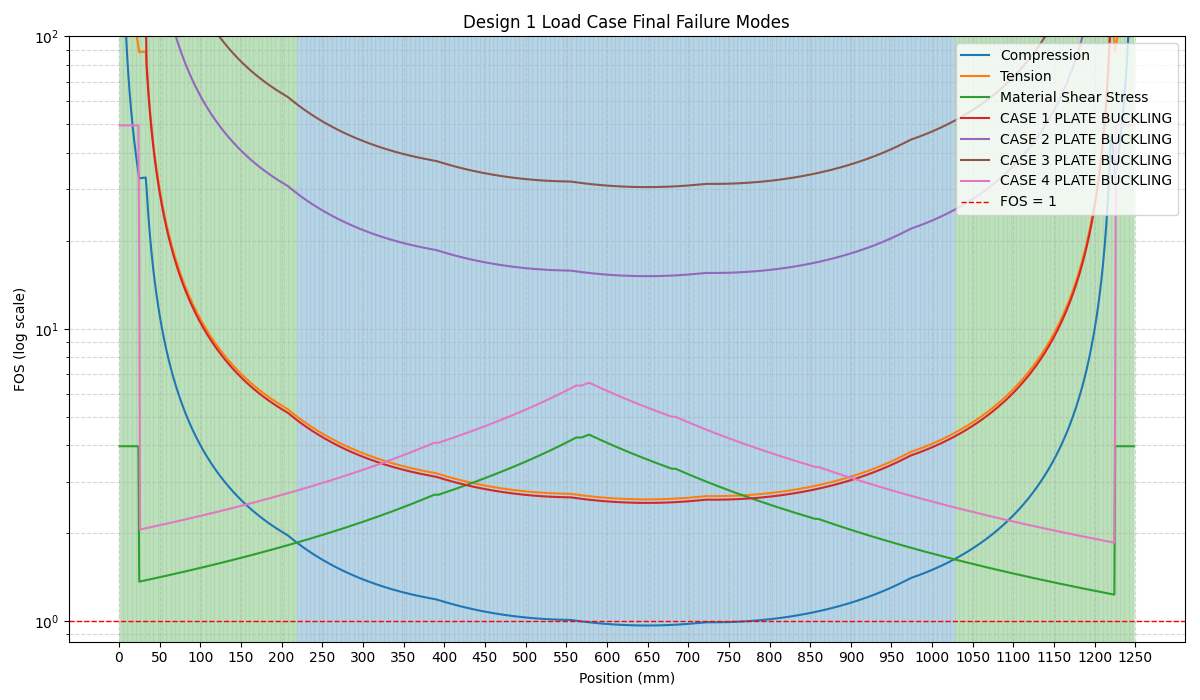
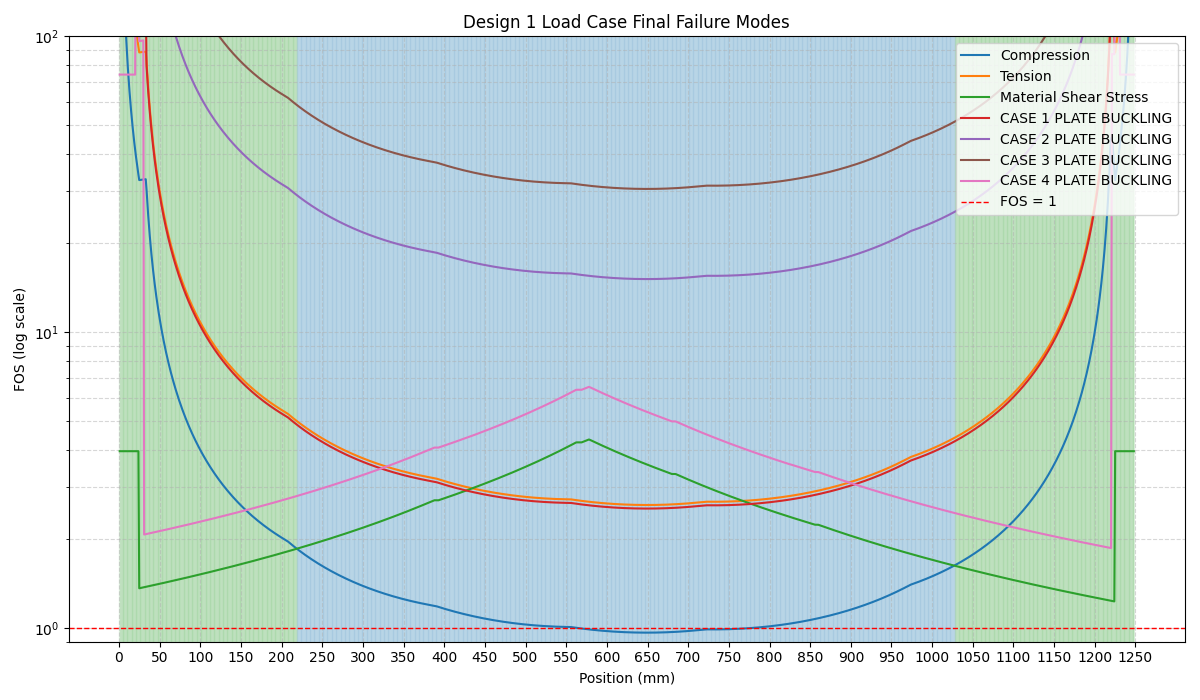
asdas

diff --git a/optimize.py b/optimize.py
@@ -25,7 +25,8 @@ import plot
 #distributed densely closer to supports, and more rarely towards the middle
 #total of 6 diaphragms
 #diaphragm_spacing = [30, 150, 350, 630, 910, 1110,]#
-diaphragm_spacing = [0, 25, 425, 825, 1225, 1250]
+diaphragm_spacing = [0, 20, 30, 425, 825, 1220, 1230, 1250]
+#diaphragm_spacing = [0, 25, 425, 825, 1225, 1250]
 #diaphragm_spacing = [0, 20, 30, 475, 750, 1220, 1230, 1250]#, 20, 30, 425, 825, 1220, 1230, 
 
 #constants (MPa)
@@ -321,9 +322,9 @@ def print_dict(dict):
 #main
 if __name__ == "__main__":
     #get arrays of rectangles of different cross-sections
-    supports = CrossSection.get_rects("./Design Iterations/design4_supports.txt")
-    edge = CrossSection.get_rects("./Design Iterations/design4_middle.txt")
-    middle = CrossSection.get_rects("./Design Iterations/design4_middle.txt")
+    supports = CrossSection.get_rects("./Design Iterations/design6_supports.txt")
+    edge = CrossSection.get_rects("./Design Iterations/design6_edge.txt")
+    middle = CrossSection.get_rects("./Design Iterations/design6_middle.txt")
 
 
     #git pull --no-rebase
@@ -342,6 +343,6 @@ if __name__ == "__main__":
     del list[1], list[-1]
 
     #use plot.py to plot list
-    plot.plot(list, True, "Design 3 Load Case Final Failure Modes")
+    plot.plot(list, True, "Design Final Load Case Final Failure Modes")
 
     print ("DONE")
